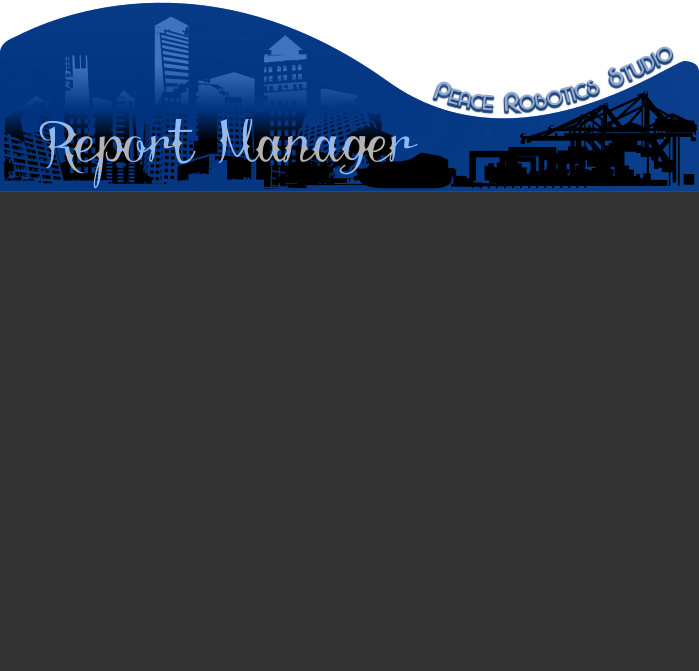
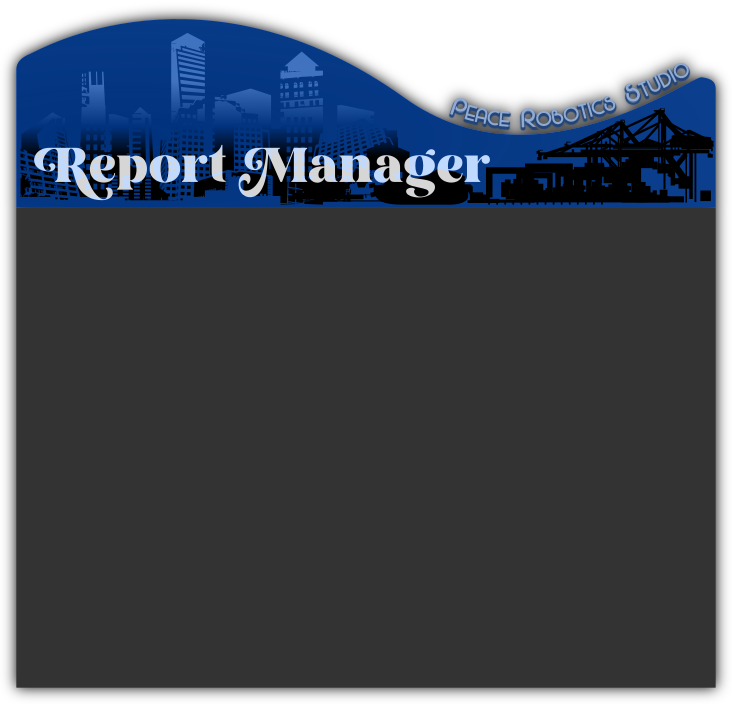
Converted menu configuration buttons to use CSS properties.

Changed region(s): [[0.0, 0.0, 1.0, 1.0]]

diff --git a/data/css/style.css b/data/css/style.css
@@ -1,27 +1,35 @@
 .content {
     color: #dbdbdb;
     background-color: #2b2b2b;
+    margin-right: 15px;
+    margin-left: 15px;
 }
 
-.button-background {
-    background-image: url("../gui/button-default.png");
-    border-image: none;
-    color: gray;
-    font-weight: bold;
-    font-size: 18px;
-    margin: 0;
-    padding: 0;
-    padding-top: 2px;
-    border: 0;
-    min-width: 110px;
-    min-height: 41px;
-    box-shadow: none;
+.launcher-menu {
+    border: 0px;
+    border-bottom: 5px solid #2b2b2b;
+    border-radius: 0px;
+    background-image:none;
+    background-color: #2b2b2b;
+    padding-bottom: 5px;
+    margin-right: 5px;
 }
 
-#green-button.button-background {
-    color: green;
+#inactive-configure-button.launcher-menu {
+    color: #dbdbdb;
+    padding-bottom: 5px;
 }
 
-#green-button.button-background:hover {
-    background-image: url("../gui/button-bright-green.png");
+#inactive-configure-button.launcher-menu:hover {
+    background-color: #212121;
+    border-bottom: 5px solid black;
+}
+
+#active-configure-button.launcher-menu {
+    color: #dbdbdb;
+    border-bottom: 5px solid #2d5fab;
+}
+
+#active-configure-button.launcher-menu:hover {
+    background-color: #212121;
 }

diff --git a/src/launcher/gui/L_Menu_Layer.py b/src/launcher/gui/L_Menu_Layer.py
@@ -4,11 +4,13 @@
 
 import cairo
 import gi
+
 gi.require_version('Gtk', '3.0')
 
 from gi.repository import Gtk, Gdk
 from .L_Button import L_Button
 from ...Settings import *
+
 
 class L_Menu_Layer:
 
@@ -27,22 +29,35 @@ class L_Menu_Layer:
         return self.__layout_container
 
     def __build_layer(self) -> None:
-        """ Private Initilizer: This function composes the menu layout """
+        """ Private Initializer: This function composes the menu layout """
         self.__menu_area = Gtk.Box(orientation=Gtk.Orientation.HORIZONTAL, spacing=0)
         self.__menu_area.get_style_context().add_class('content')
         self.__menu_area.set_hexpand(True)
         self.__menu_area.set_vexpand(True)
-        self.__menu_area.set_margin_top(self.__launcher_properties['BANNER_HEIGHT'])
-        self.__menu_area.set_margin_bottom(self.__launcher_properties['LAUNCHER_HEIGHT'] - self.__launcher_properties['BANNER_HEIGHT'] - self.__launcher_properties['CONFIG_BUTTON_HEIGHT'])
-        self.__build_menu_buttons()
-
+        self.__menu_area.set_margin_top(
+            self.__launcher_properties['BANNER_HEIGHT'])  # Set the top margin to the height of the banner
+        # Set the bottom margin to (window_height - banner_height - button_height)
+        self.__menu_area.set_margin_bottom(
+            self.__launcher_properties['LAUNCHER_HEIGHT'] - self.__launcher_properties['BANNER_HEIGHT'] -
+            self.__launcher_properties['CONFIG_BUTTON_HEIGHT'])
+        self.__build_menu_buttons()  # Construct a list of buttons to add to the configuration menu
         self.__layout_container.attach(child=self.__menu_area, left=0, top=1, width=1, height=1)
         for index, button in enumerate(self.__menu_buttons, start=0):
-            self.__menu_area.pack_start(child=self.__menu_buttons[button].get_button(), expand=False, fill=False, padding=0)
+            self.__menu_area.pack_start(child=self.__menu_buttons[button].get_button(), expand=False, fill=False,
+                                        padding=0)
 
     def __build_menu_buttons(self) -> None:
-        for i in range(len(configuration_menu_labels)):
-            self.__menu_buttons[configuration_menu_labels[i]] = L_Button(self, configuration_menu_labels[i], 'button-background', 'green-button')
+        for i in range(len(launcher_configuration_menu_labels)):
+            if i == default_launcher_configuration_menu:  # Located in Settings.py
+                self.__menu_buttons[launcher_configuration_menu_labels[i]] = L_Button(self,
+                                                                                      launcher_configuration_menu_labels[
+                                                                                          i], 'launcher-menu',
+                                                                                      'active-configure-button')
+            else:
+                self.__menu_buttons[launcher_configuration_menu_labels[i]] = L_Button(self,
+                                                                                      launcher_configuration_menu_labels[
+                                                                                          i], 'launcher-menu',
+                                                                                      'inactive-configure-button')
 
     def process_button_click(self, data):
         print(data)

diff --git a/src/launcher/Launcher_Interface.py b/src/launcher/Launcher_Interface.py
@@ -17,7 +17,7 @@ class Report_Manager_Launcher(Gtk.Dialog):
         # A dictionary of properties that define the look and feel of the launcher window
         self.__launcher_properties = dict(
             WINDOW_IMAGE=cairo.ImageSurface.create_from_png(res_dir['GUI'] + 'window-image.png'),
-            DEFAULT_CONFIG_BUTTON_IMAGE=cairo.ImageSurface.create_from_png(res_dir['GUI'] + 'button-default.png'),
+            DEFAULT_CONFIG_BUTTON_HEIGHT=40,
             BANNER_IMAGE=cairo.ImageSurface.create_from_png(res_dir['GUI'] + 'banner.png')   # This is a copy of the banner image that users click on to move the launcher
         )
         self.__launcher_properties['WIDTH'] = self.__launcher_properties['WINDOW_IMAGE'].get_width()      # Width of launcher window image
@@ -26,8 +26,8 @@ class Report_Manager_Launcher(Gtk.Dialog):
         self.__gui_manager = L_GUI_Manager(self,
                                            l_width=self.__launcher_properties['WIDTH'],
                                            l_height=self.__launcher_properties['HEIGHT'],
-                                           banner_height=self.__launcher_properties['BANNER_IMAGE'].get_height(),
-                                           config_button_height=self.__launcher_properties['DEFAULT_CONFIG_BUTTON_IMAGE'].get_height())
+                                           banner_height=206,
+                                           config_button_height=self.__launcher_properties['DEFAULT_CONFIG_BUTTON_HEIGHT'])
         # Create a launcher window with the same dimensions as the window image
         self.set_default_size(self.__launcher_properties['WIDTH'], self.__launcher_properties['HEIGHT'])
         self.set_decorated(False)  # Creates a borderless window without a title bar

diff --git a/src/launcher/gui/L_Button.py b/src/launcher/gui/L_Button.py
@@ -4,7 +4,8 @@
 
 import gi
 gi.require_version('Gtk', '3.0')
-from gi.repository import Gtk, Gdk
+from gi.repository import Gtk
+
 
 class L_Button:
     def __init__(self, h_menu_layer, label, style_class, style_name):
@@ -18,6 +19,7 @@ class L_Button:
         self.__button.connect("clicked", self.button_clicked)
         self.__button.get_style_context().add_class(style_class) # 'button-background'
         self.__button.set_name(style_name) # 'green-button'
+        self.__button.set_can_focus(False)
 
     def get_button(self) -> Gtk.Button:
         """ Public Accessor: This function returns Gtk.Button object used in the menu. """

diff --git a/src/Settings.py b/src/Settings.py
@@ -17,7 +17,10 @@ res_dir = dict(
 
 default_css_class = 'content-area'
 
-configuration_menu_labels = [
-    "RUN",
-    "QUIT",
+launcher_configuration_menu_labels = [
+    "Setup",
+    "Quick Reports",
+    "Results"
 ]
+
+default_launcher_configuration_menu = 0     # This number is an index value of launcher_configuration_menu_labels[]
